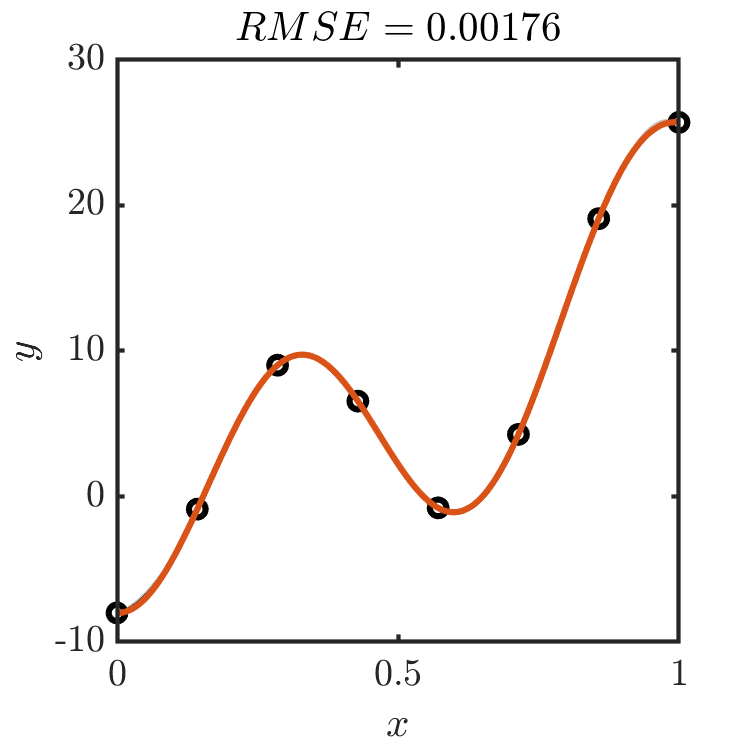
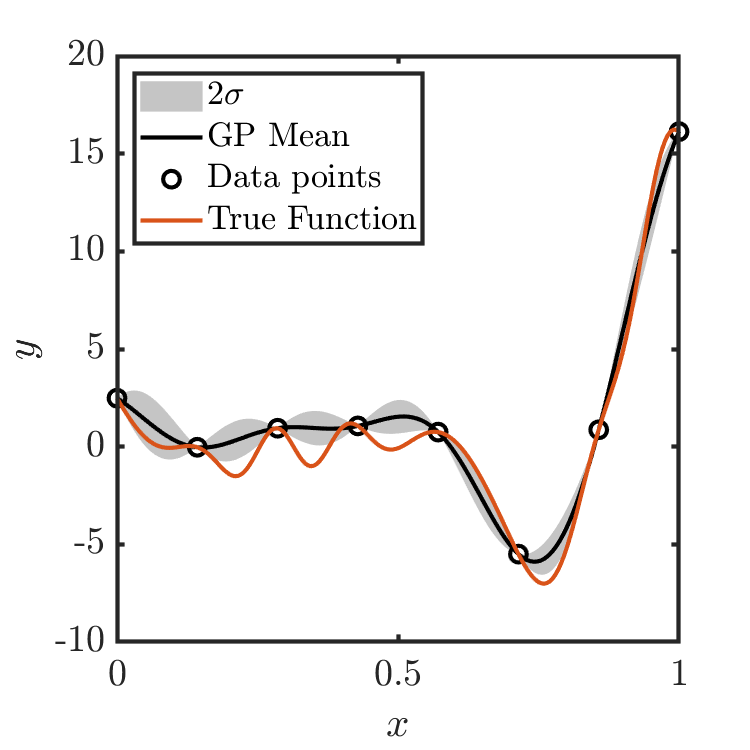
update analytic functions

diff --git a/code/image_gen/gp_analytical/plot_sf_vs_mf.m b/code/image_gen/gp_analytical/plot_sf_vs_mf.m
@@ -20,11 +20,9 @@ setup_plots(plot_options);
 n_samp = 201;
 x_samp      = linspace(0,1,n_samp)';
 % Define the truth latent function
-y_1f_func = @(x1) 0.5.*(6.*x1 -2).^2 .* sin(12.*x1 -4) + 10.*(x1-0.5) - 5 ;
-y_hf_func = @(x2) 2*y_lf_func(x2) - 20*x2 +20;
+y_lf_func = @(x1) 0.5.*(6.*x1 -2).^2 .* sin(12.*x1 -4) + 10.*(x1-0.5) - 5 ;
+y_hf_func = @(x2) 2*y_lf_func(x2) - 20*x2 +20 + sin(10.*cos(5.*x2));
 
-y_lf_func = @(x1) -(x1*2).^3 .* cos(10.*x1) + 10.*(x1) - 5 ;
-y_hf_func = @(x2) 20*x2.^2 - 8.* cos(10.*x2) - x2;
 % Get the truth values at the sample points
 figure(1); clf;
 plot(x_samp,y_hf_func(x_samp))
@@ -32,68 +30,21 @@ hold on
 plot(x_samp,y_lf_func(x_samp))
 legend('True function','Low-fidelity approximation','location','northwest')
 
-%% High Fidelity
 
-for i = 3:1:6
-    rng(1)
-    n_hf=i;
-    X_HF = lhsdesign(n_hf,1);
-    X_HF = linspace(0.0,1.0,n_hf)';
-    Y = y_hf_func(X_HF) + randn(size(X_HF))*0.2;
-    sig = ones(n_hf,1)*.001;
-    gp = MF_GP;
-    gp = gp.add_data(X_HF,Y,sig);
-    gp = gp.Process();
-    % gp.plot_input_data();
-    figure(2); clf;
-    gp.plot_GP_1D_slice(x_samp,x_samp)
-    plot(X_HF,Y,'ko')
-    plot(x_samp,y_hf_func(x_samp))
-    if i ==6 
-        legend('$2\sigma$','GP Mean','Data points','True Function','location','northwest')
-    end
-    xlabel('$x$')
-    ylabel('$y$')
-    [y_samp,~] = gp.Query(x_samp);
-    rmse = sum((y_samp-y_hf_func(x_samp)).^2)/n_samp;
-%     title(sprintf('$RMSE =%.5f$',rmse)); 
-    saveas(gcf,sprintf('images/hf_%i.png',i))
-    
-    
-    sig = ones(n_hf,1)*1.0; 
-    gp = MF_GP;
-    gp = gp.add_data(X_HF,Y,sig);
-    gp = gp.Process();
-    % gp.plot_input_data();
-    figure(3); clf;
-    gp.plot_GP_1D_slice(x_samp,x_samp)
-    errorbar(X_HF,Y,2.*sig,'ko','MarkerSize',msz,'LineWidth',lw,'capsize',8)
-    plot(x_samp,y_hf_func(x_samp))
-    if i ==6 
-        legend('$2\sigma$','GP Mean','Data points','True Function','location','northwest')
-    end
-    xlabel('$x$')
-    ylabel('$y$')
-    [y_samp,~] = gp.Query(x_samp);
-    rmse = sum((y_samp-y_hf_func(x_samp)).^2)/n_samp;
-%     title(sprintf('$RMSE =%.5f$',rmse)); 
-    saveas(gcf,sprintf('images/hf_%i_noise.png',i))
-end
-
-
-%% Low 
+%% Low
 
 rng(10)
-n_lf=21;
-n_hf = i;
+n_lf=11;
+n_hf = 4;
 % X_LF = lhsdesign(n_lf,1);
 X_HF = lhsdesign(n_hf,1);
 X_HF = linspace(0,1.0,n_hf)';
+X_HF = [0.0, 0.4, 0.6, 1.0]';
 X_LF = linspace(0,1.0,n_lf)';
 Y_LF = y_lf_func(X_LF);
 Y_HF = y_hf_func(X_HF);
-sig_LF = ones(n_lf,1)*2.0;
-sig_HF = ones(n_hf,1)*1.0; 
+sig_LF = ones(n_lf,1)*0.5;
+sig_HF = ones(n_hf,1)*0.3;
 gp = MF_GP;
 gp = gp.add_data(X_LF,Y_LF,sig_LF);
 gp = gp.add_data(X_HF,Y_HF,sig_HF);
@@ -111,9 +62,9 @@ plot(x_samp,y_hf_func(x_samp))
 plot(x_samp,y_lf_func(x_samp))
 [y_samp,~] = gp.Query(x_samp);
 rmse = sum((y_samp-y_hf_func(x_samp)).^2)/n_samp;
-title(sprintf('$RMSE =%.5f$',rmse)); 
+title(sprintf('$RMSE =%.5f$',rmse));
 legend('$2\sigma$','GP Mean','Data points','True Function','location','northwest')
-saveas(gcf,sprintf('images/mf_%i_noise.png',i))
+saveas(gcf,sprintf('images/mf_%i_noise.png',n_hf))
 
 gp = MF_GP;
 gp = gp.add_data(X_HF,Y_HF,sig_HF);
@@ -130,4 +81,4 @@ rmse = sum((y_samp-y_hf_func(x_samp)).^2)/n_samp;
 xlabel('$x$')
 ylabel('$y$')
 % title(sprintf('$RMSE =%.5f$',rmse));
-saveas(gcf,sprintf('images/hf_%i_noise.png',i))
+saveas(gcf,sprintf('images/hf_%i_noise.png',n_hf))

diff --git a/code/image_gen/gp_analytical/plot_gpr.m b/code/image_gen/gp_analytical/plot_gpr.m
@@ -1,0 +1,86 @@
+clear all;
+close all;
+clc;
+set(groot,'defaultAxesFontSize',18)
+set(groot,'defaultAxesTickLength',[0.01 0.01])
+set(groot,'defaultAxesLineWidth',2)
+
+
+fs = 18;
+lw = 2.0;
+msz= 8;
+
+plot_options = plotting_options('thesis');
+plot_options.width = 5;
+plot_options.height = 5;
+plot_options.font_size = fs;
+plot_options.line_width = lw;
+setup_plots(plot_options);
+%%
+n_samp = 201;
+x_samp      = linspace(0,1,n_samp)';
+% Define the truth latent function
+y_lf_func = @(x1) 0.5.*(6.*x1 -2).^2 .* sin(12.*x1 -4) + 10.*(x1-0.5) - 5 ;
+y_hf_func = @(x2) 2*y_lf_func(x2) - 20*x2 +20 + sin(10.*cos(5.*x2));
+
+% y_lf_func = @(x1) -(x1*2).^3 .* cos(10.*x1) + 10.*(x1) - 5 ;
+% y_hf_func = @(x2) 20*x2.^2 - 8.* cos(10.*x2) - x2;
+% Get the truth values at the sample points
+figure(1); clf;
+plot(x_samp,y_hf_func(x_samp))
+hold on
+plot(x_samp,y_lf_func(x_samp))
+legend('True function','Low-fidelity approximation','location','northwest')
+
+%% High Fidelity
+i = 8;
+rng(1)
+n_hf=i;
+X_HF = lhsdesign(n_hf,1);
+X_HF = linspace(0.0,1.0,n_hf)';
+% X_HF = [0.0, 0.4, 0.6, 1.0]';
+Y = y_hf_func(X_HF);% + randn(size(X_HF))*0.1;
+sig = ones(n_hf,1)*.001;
+gp = MF_GP;
+gp = gp.add_data(X_HF,Y,sig);
+gp = gp.Process();
+% gp.plot_input_data();
+figure(2); clf;
+gp.plot_GP_1D_slice(x_samp,x_samp)
+plot(X_HF,Y,'ko')
+plot(x_samp,y_hf_func(x_samp))
+legend('$2\sigma$','GP Mean','Data points','True Function','location','northwest')
+
+xlabel('$x$')
+ylabel('$y$')
+[y_samp,~] = gp.Query(x_samp);
+rmse = sum((y_samp-y_hf_func(x_samp)).^2)/n_samp;
+%     title(sprintf('$RMSE =%.5f$',rmse));
+saveas(gcf,sprintf('images/hf_%i.png',i))
+n_sample = 5;
+for j = 1:n_sample
+    plot(x_samp,gp.Sample(x_samp),'LineWidth',1,'HandleVisibility','off')
+end
+saveas(gcf,sprintf('images/hf_%i_samples.png',i))
+
+sig = ones(n_hf,1)*1.0;
+gp = MF_GP;
+gp = gp.add_data(X_HF,Y,sig);
+gp = gp.Process();
+% gp.plot_input_data();
+figure(3); clf;
+gp.plot_GP_1D_slice(x_samp,x_samp)
+errorbar(X_HF,Y,2.*sig,'ko','MarkerSize',msz,'LineWidth',lw,'capsize',8)
+plot(x_samp,y_hf_func(x_samp))
+legend('$2\sigma$','GP Mean','Data points','True Function','location','northwest')
+
+xlabel('$x$')
+ylabel('$y$')
+[y_samp,~] = gp.Query(x_samp);
+rmse = sum((y_samp-y_hf_func(x_samp)).^2)/n_samp;
+%     title(sprintf('$RMSE =%.5f$',rmse));
+saveas(gcf,sprintf('images/hf_%i_noise.png',i))
+for j = 1:n_sample
+    plot(x_samp,gp.Sample(x_samp),'LineWidth',1,'HandleVisibility','off')
+end
+saveas(gcf,sprintf('images/hf_%i_noise_samples.png',i))
